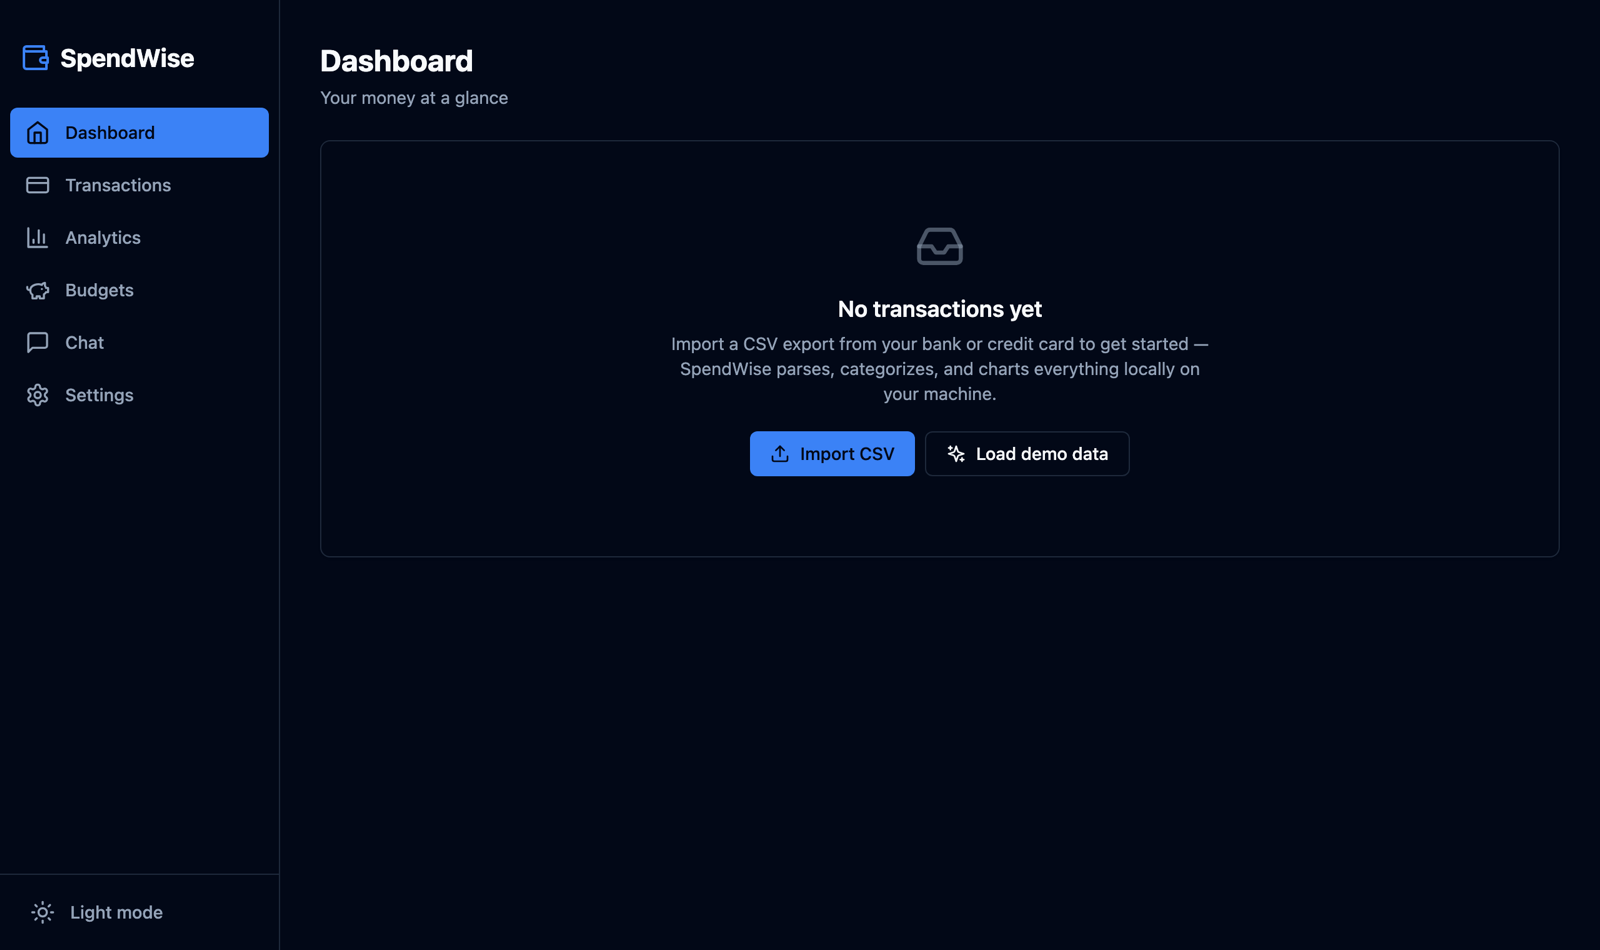
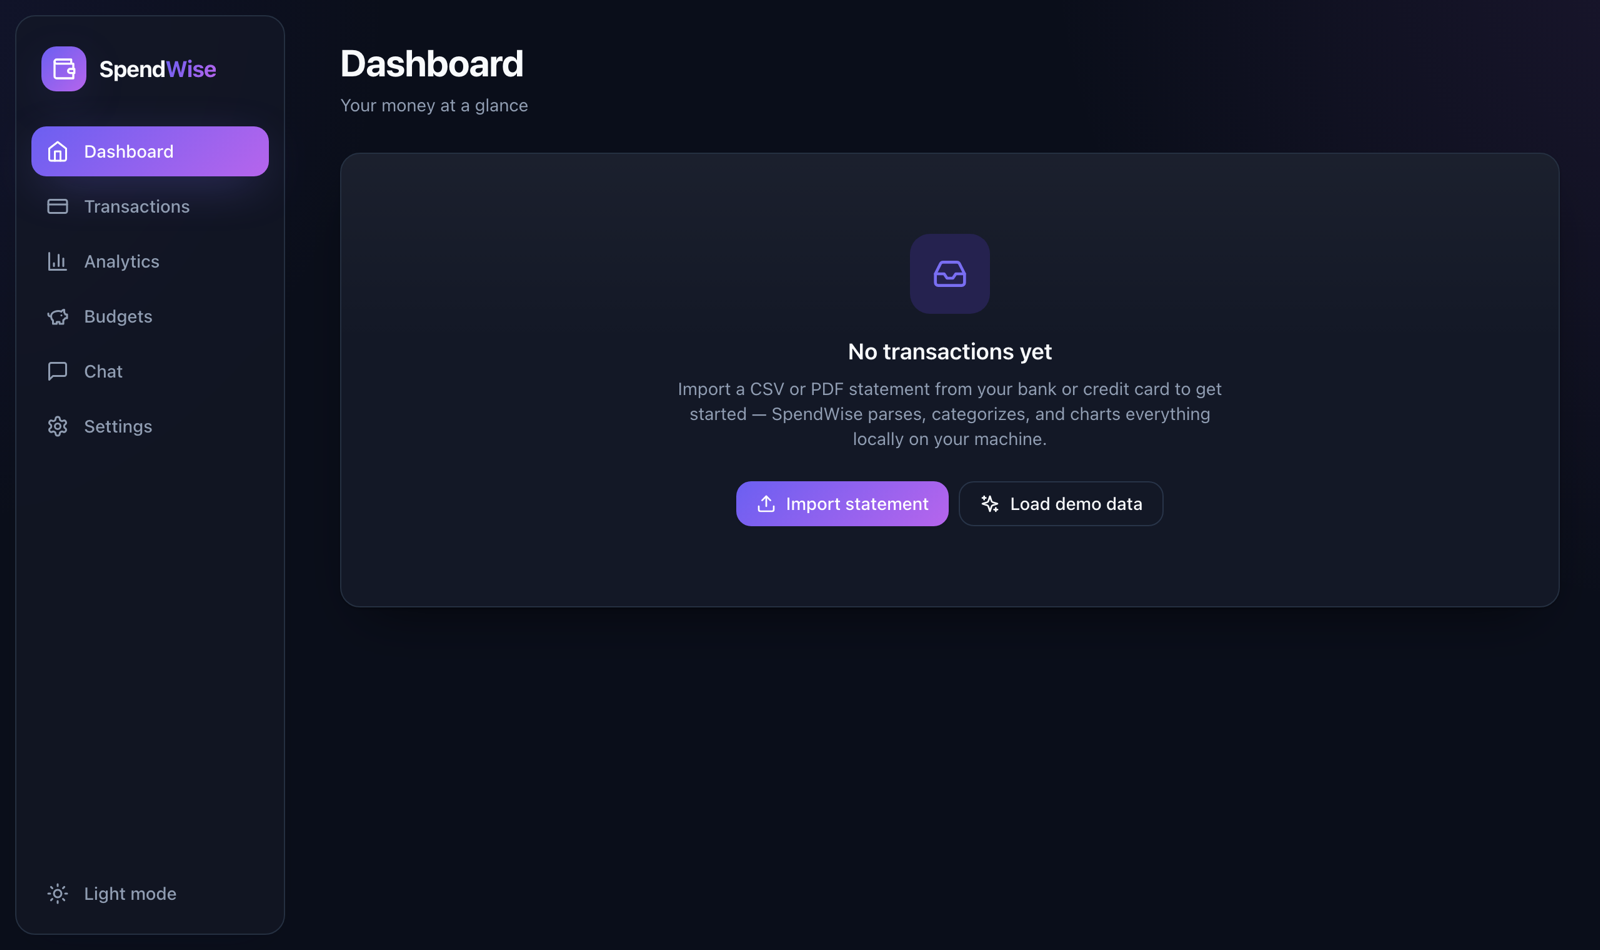
Rename Stock Analysis Platform to Basis, refresh SpendWise screenshot
- Rebrand the stock project as "Basis" with the new evidence-based investing
  workbench description, live welcome-page screenshot, and Render demo link.
- Update the SpendWise card to the redesigned purple UI screenshot and note
  CSV/PDF statement import.

diff --git a/data/projects.ts b/data/projects.ts
@@ -23,28 +23,28 @@ export interface Project {
 
 export const projects: Project[] = [
   {
-    id: "stock-analysis",
-    title: "Stock Analysis Platform",
+    id: "basis",
+    title: "Basis",
     problem:
-      "Retail investors juggle separate tools for charts, portfolio tracking, and market news.",
+      "Most retail investors buy on hype and can't say why they own what they own.",
     solution:
-      "A Robinhood-style full-stack trading dashboard with live market data, portfolio simulation, and interactive charting.",
+      "An evidence-based investing workbench: deep stock research, honest statistical forecasts, and a $100k paper-trading engine with exact accounting — so you can practice a disciplined process before a single real dollar moves.",
     categories: ["Full Stack", "Backend"],
-    stack: ["Next.js", "Flask", "Python", "TypeScript", "Vercel"],
+    stack: ["Next.js", "Flask", "Python", "Firebase", "Alpha Vantage"],
     features: [
-      "Live quotes and interactive price charts",
-      "Simulated portfolio with buy/sell flows",
-      "Flask REST API backend with market-data integration",
+      "Forecast Lab benchmarks statistical models (Damped Holt, AR) against a naive baseline by MAPE",
+      "$100k paper-trading engine with exact accounting and real-time P/L",
+      "Deep stock research with technical alerts (RSI, moving averages)",
     ],
-    image: "/projects/stockerr/5.gif",
+    image: "/projects/basis/preview.png",
     github: "https://github.com/shreyas463/Stock-Analysis-platform",
-    demo: "https://stock-analysis-platform-bay.vercel.app",
+    demo: "https://basis-retr.onrender.com/welcome",
     featured: true,
     architecture: [
-      { component: "Next.js frontend", detail: "Charting UI, portfolio views, auth" },
-      { component: "Flask API", detail: "Quotes, orders, portfolio endpoints" },
-      { component: "Market data service", detail: "Third-party stock data integration" },
-      { component: "Vercel", detail: "Frontend hosting and CI" },
+      { component: "Next.js frontend", detail: "Research, forecast lab, paper-trading UI" },
+      { component: "Flask API", detail: "Quotes, forecasts, orders, portfolio endpoints" },
+      { component: "Forecast engine", detail: "Statistical models benchmarked by MAPE" },
+      { component: "Firebase", detail: "Auth and real-time portfolio state" },
     ],
   },
   {
@@ -77,11 +77,11 @@ export const projects: Project[] = [
     problem:
       "Personal-finance apps demand cloud accounts and hand your bank data to third parties.",
     solution:
-      "A local-first, fully offline desktop app that imports bank and credit-card CSVs and turns them into categorized analytics, budgets, and a natural-language query interface — every byte processed on your own machine.",
+      "A local-first, fully offline desktop app that imports bank and credit-card statements (CSV or PDF) and turns them into categorized analytics, budgets, and a natural-language query interface — every byte processed on your own machine.",
     categories: ["Full Stack", "Automation"],
     stack: ["TypeScript", "Electron", "React", "Vite", "Tailwind CSS", "Recharts"],
     features: [
-      "Smart CSV import with merchant extraction and ~150 auto-categorization rules",
+      "Smart CSV / PDF statement import with merchant extraction and ~150 auto-categorization rules",
       "Interactive dashboards, budgets with alerts, and exportable charts",
       "Natural-language query interface over your transactions",
     ],